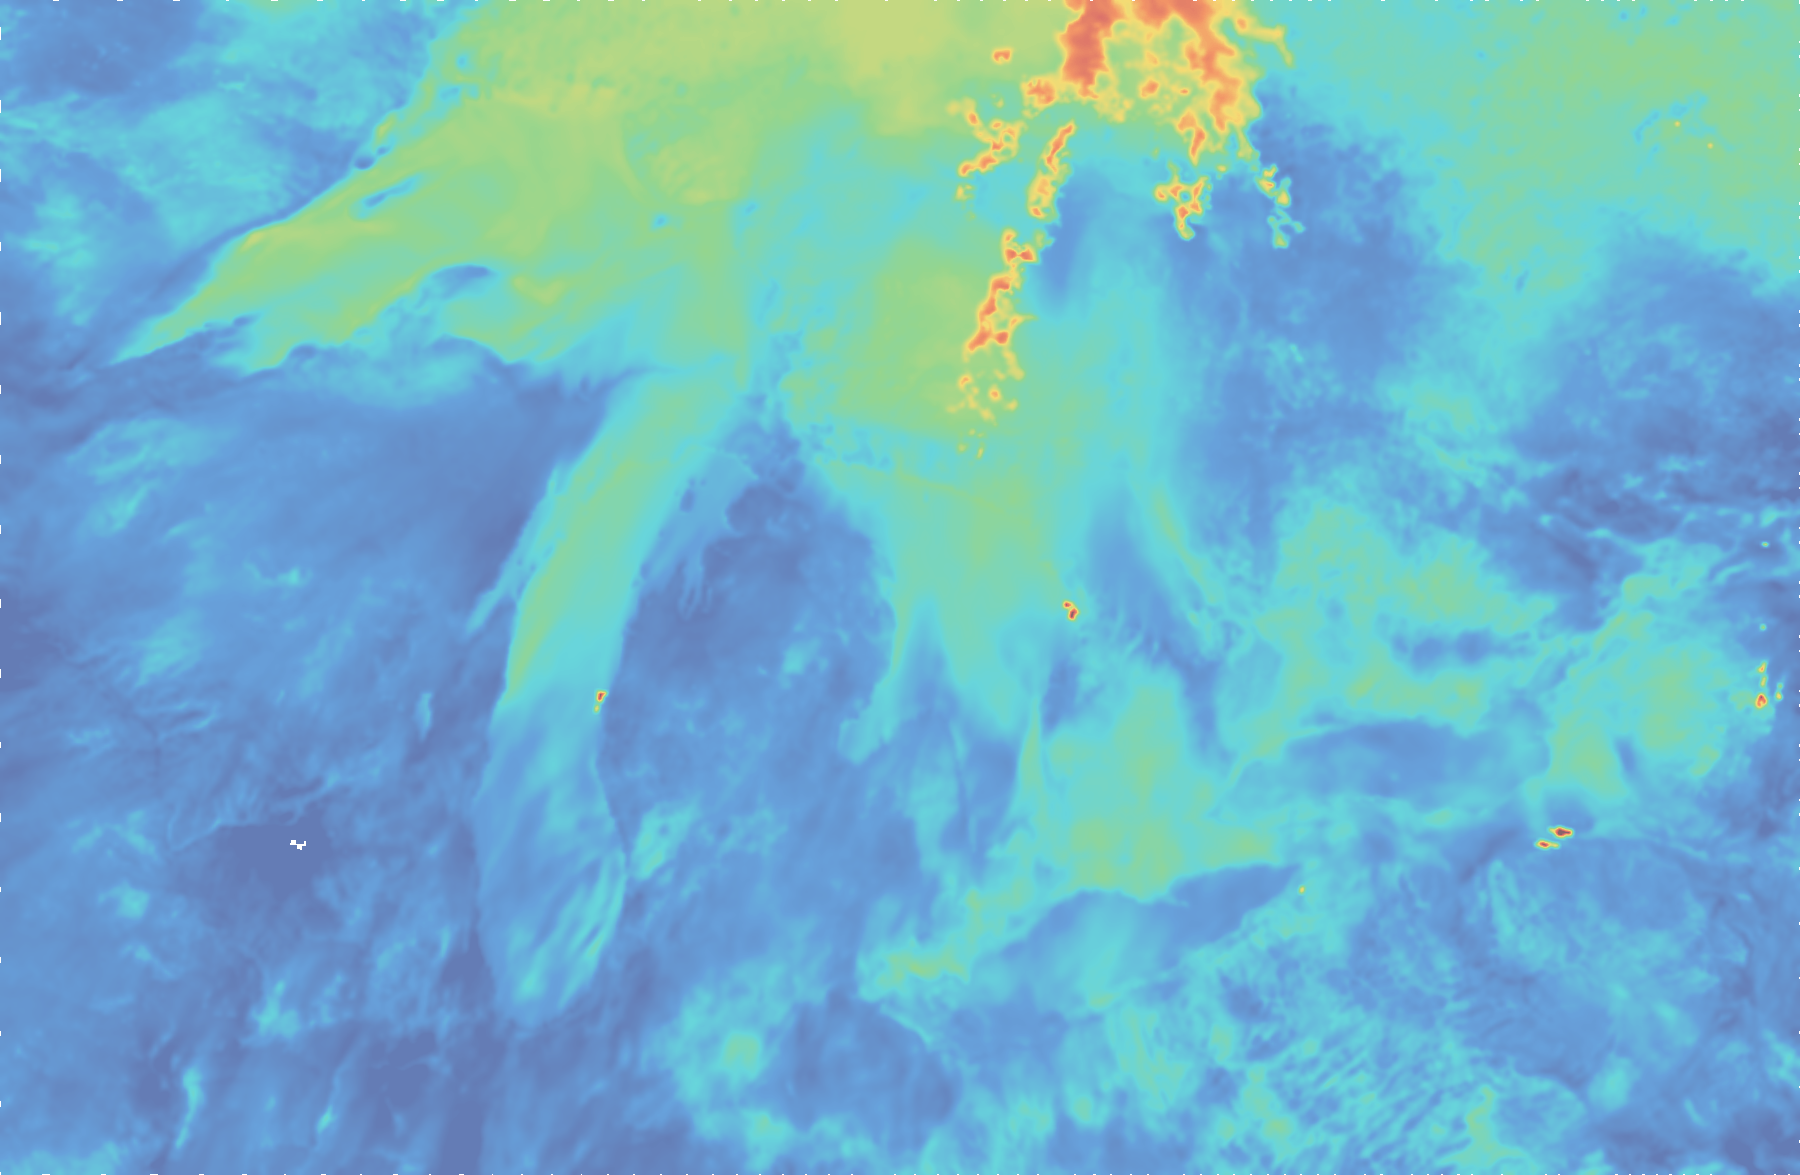
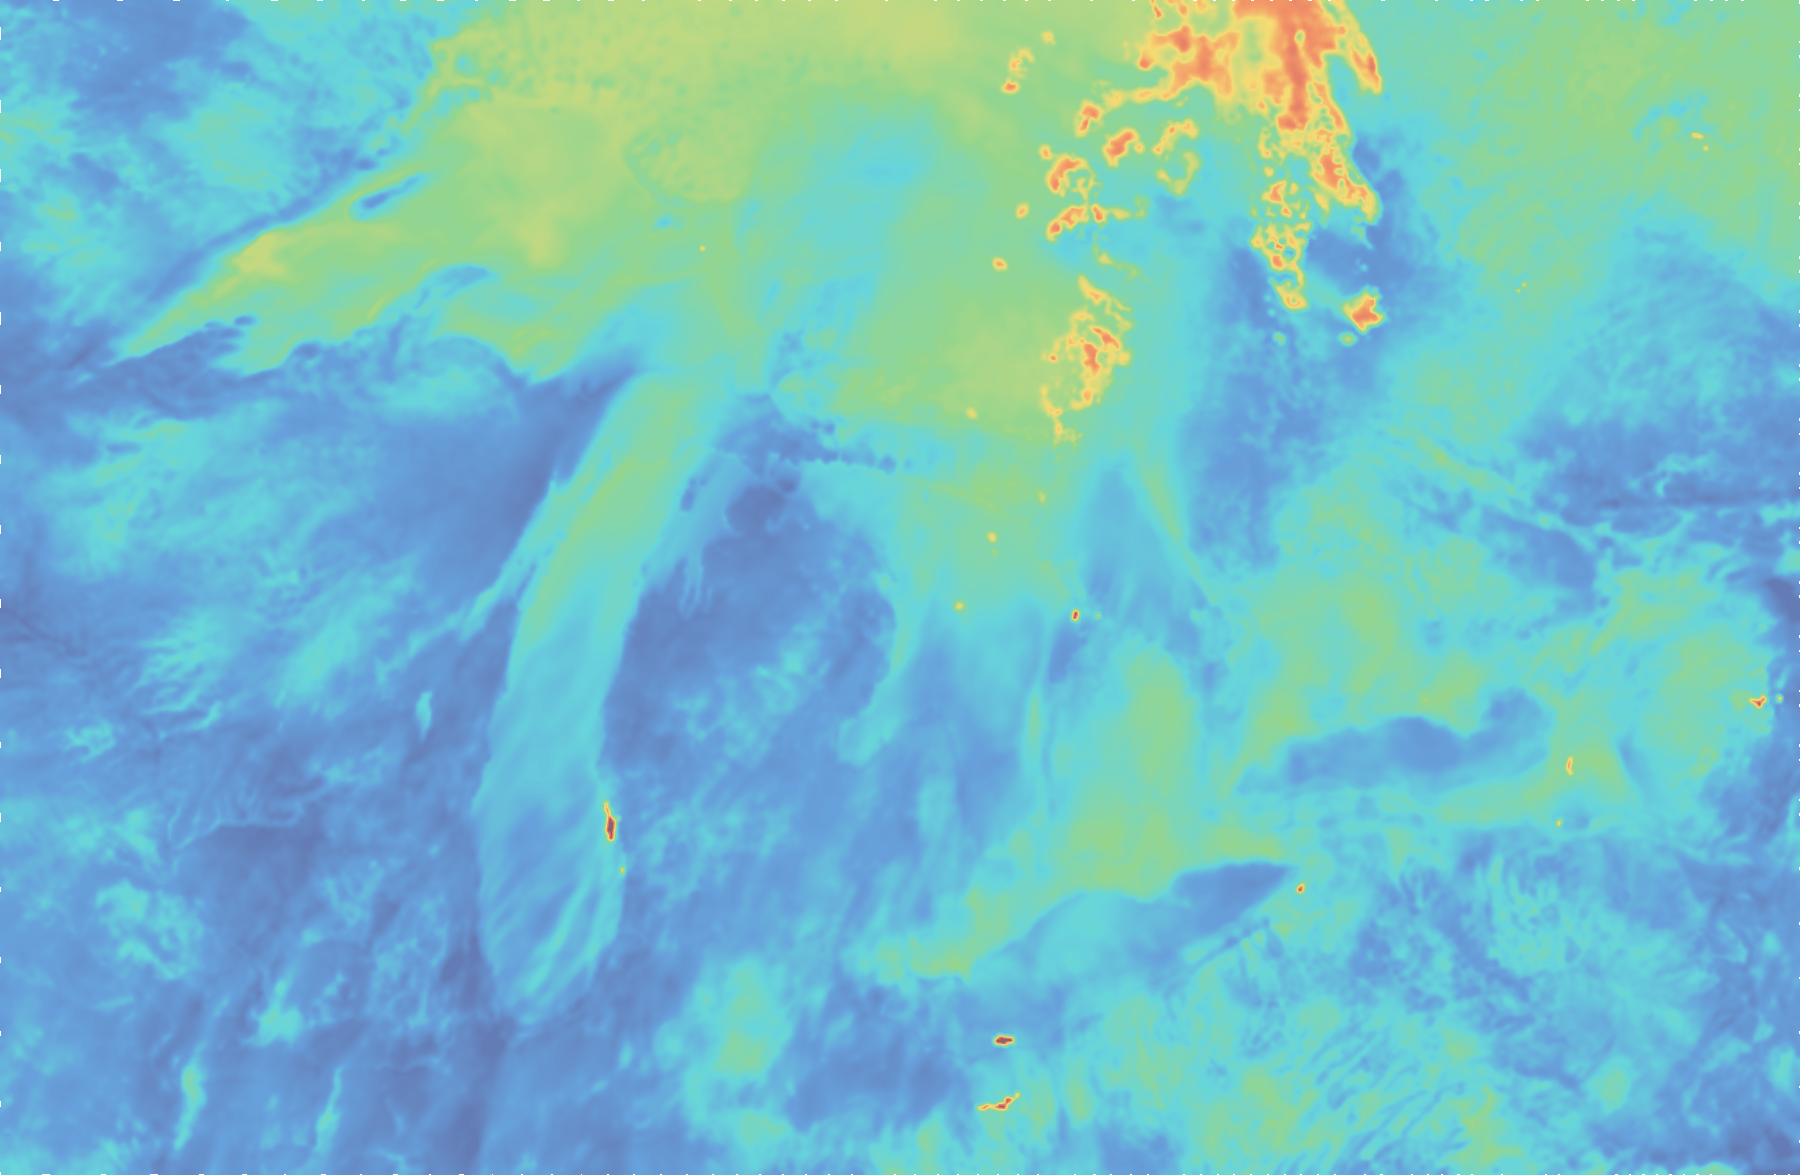
Visibility: admit ultra-clear air to 200 km (fixes transparent holes)
The [0,60000] m validity gate turned the clearest Arctic air (HRRR
emits to ~90 km) into transparent holes - up to 69k pixels punched
out of deep-blue regions. Gate widened to [0,200000] m; display still
clamps above 30 mi. Missing pixels 68991 -> 614 (structural grid
corners only). g4 tag force-reloads clients.

diff --git a/scripts/build_visibility.py b/scripts/build_visibility.py
@@ -127,13 +127,15 @@ def _build(dd, cc, source_id):
         {"model_cycle": f"{dd} t{cc}z",
          "stats": {"current_min": float(raw[ok].min()),
                    "current_max": float(raw[ok].max()),
-                   "display_smoothing": "NaN-aware 2-pass blur; stats on raw"}},
+                   "display_smoothing": "NaN-aware 1-pass blur; stats on raw"}},
         source_id, data_time_utc,
         "n/a (NOMADS)",
         "mi, statute (display; source m / 1609.344)",
         "~3 km HRRR CONUS grid, mean-binned to the common canvas, "
         "NaN-aware display smoothing",
-        "only [0,60000] m admitted pre-conversion; values above 30 mi "
+        "only [0,200000] m admitted pre-conversion (ultra-clear Arctic "
+        "air often exceeds 60 km; gating lower punched transparent holes "
+        "in the clearest regions); values above 30 mi "
         "clamp into deep blue; full basin rectangle, no shoreline cut; "
         "missing analysis transparent; never zero-filled.",
         alpha=165, key_ticks=KEY_TICKS)

diff --git a/scripts/live_field.py b/scripts/live_field.py
@@ -37,7 +37,7 @@ SKIP_NOTE = "Turn on/off independently of all other layers."
 # to force Google Earth clients to refetch an otherwise identical source
 # cycle after a rendering change (new ?v= without touching data or URLs).
 RENDER_TAGS = {
-    "visibility": "g3",
+    "visibility": "g4",
     "humidity": "g2",
     "light_pollution": "g4",
     "air_quality": "g2",
